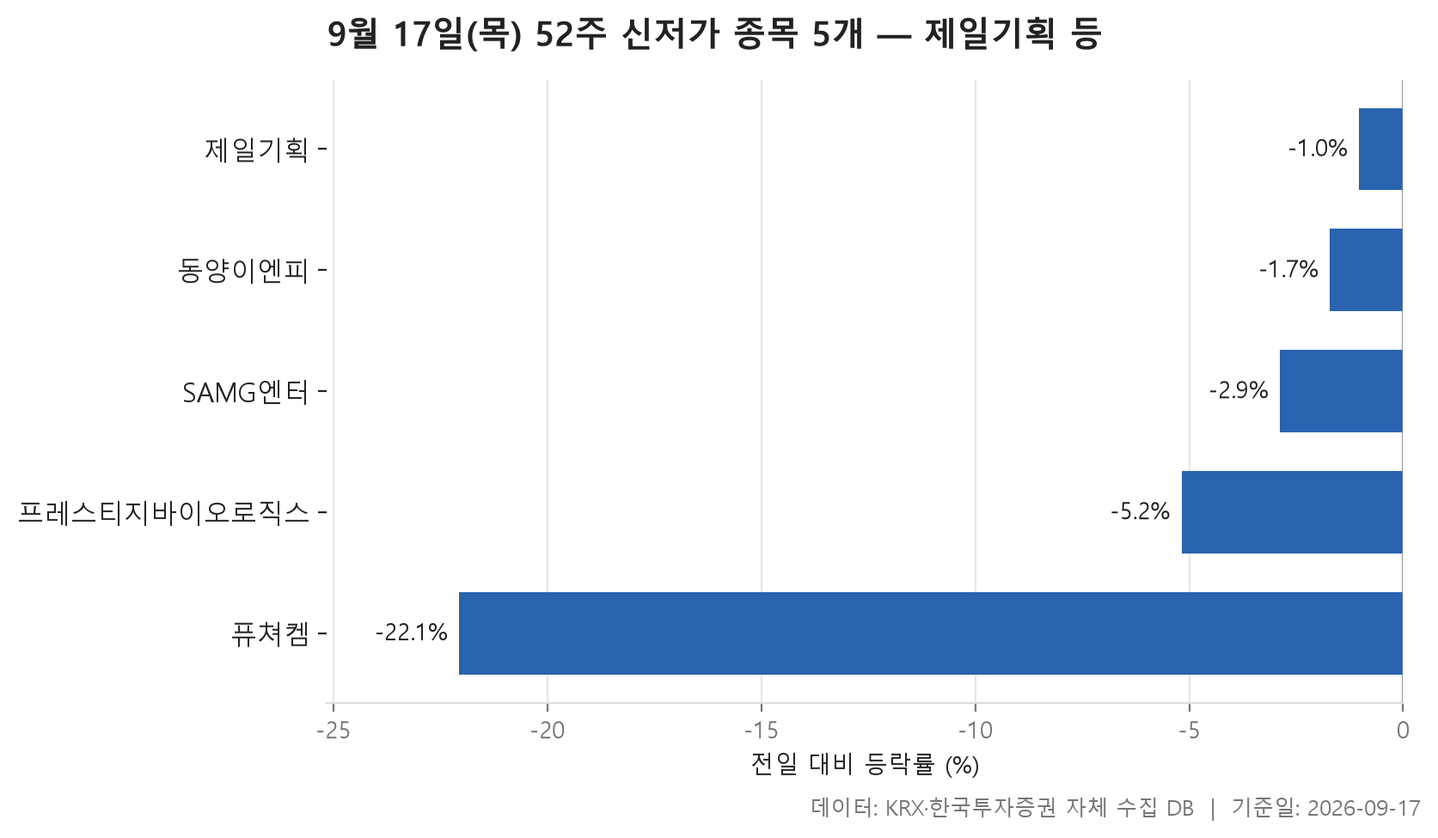
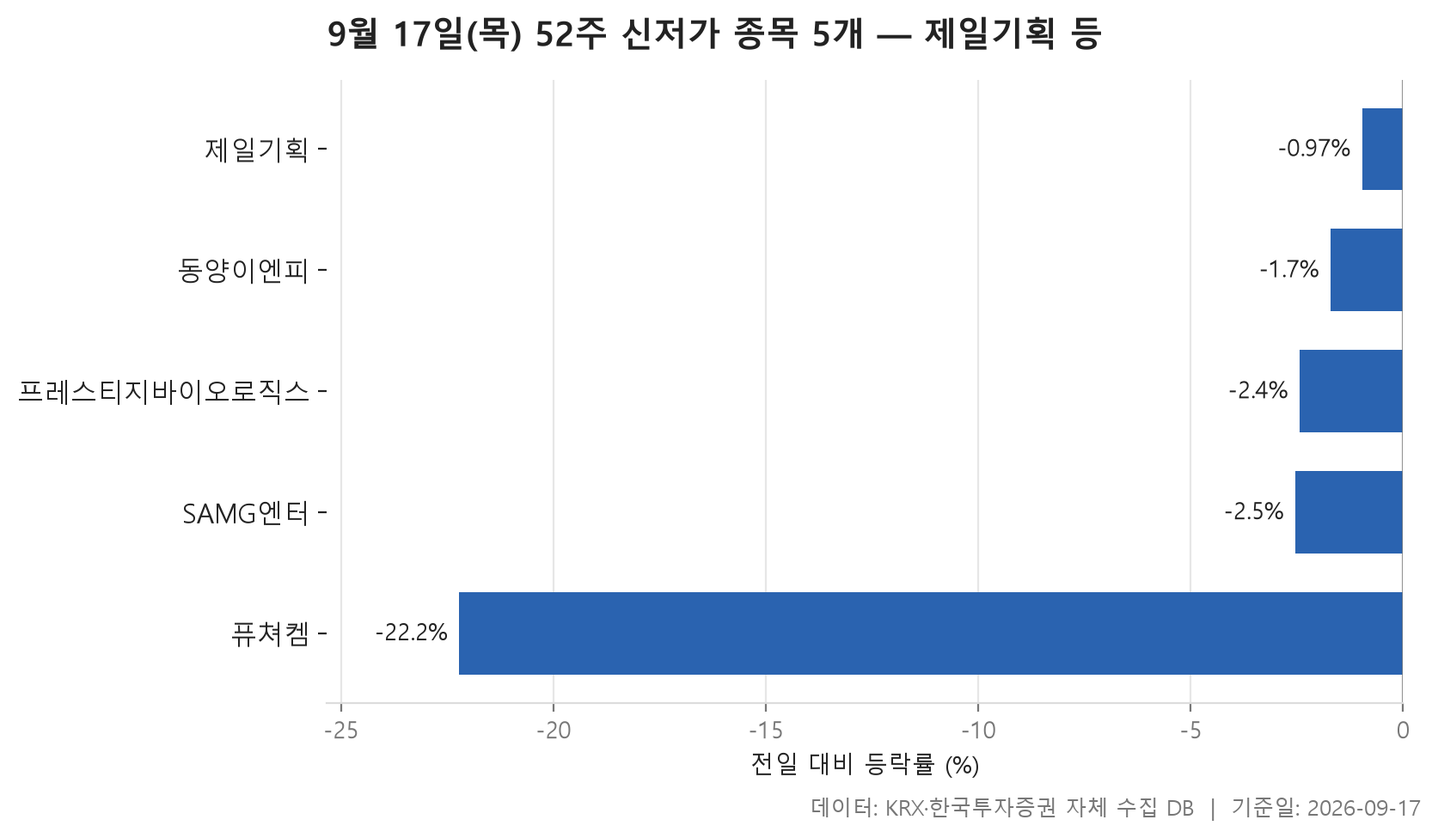
2026-09-17 자동 발행 (1편)
- 2026-09-17-daily-market

blog/daily.py 가 만들었습니다. push 는 사람이 확인 후 합니다.

diff --git a/content/posts/2026-09-17-daily-market/index.md b/content/posts/2026-09-17-daily-market/index.md
@@ -1,17 +1,17 @@
 ---
 title: "9월 17일(목) 오늘의 시장 — 보험 강세, 제조 약세"
 date: 2026-09-17T16:10:00+09:00
-lastmod: 2026-09-17T16:06:00+09:00
+lastmod: 2026-09-28T17:14:16+09:00
 description: "업종 흐름, 52주 신고가·신저가, 거래량이 터진 종목을 한 번에 정리했습니다."
 categories: ["오늘의 시장"]
 draft: false
 sourcePack: "blog/output/2026-09-17/2026-09-17-daily-market/pack.json"
 strip:
   - label: "업종 중위 등락률"
-    value: "+0.16%"
+    value: "+0.12%"
     sign: "up"
   - label: "52주 신고가"
-    value: "1개"
+    value: "2개"
     sign: ""
   - label: "52주 신저가"
     value: "5개"
@@ -20,123 +20,126 @@ strip:
     value: "20개"
     sign: ""
 ---
-9월 17일 목요일 장을 마친 뒤 데이터베이스에서 네 갈래로 자료를 뽑았습니다. 업종별로 어디가 강하고 어디가 밀렸는지, 52주 고점을 넘어선 종목과 저점을 깨고 내려간 종목, 그리고 평소보다 거래량이 유독 많이 실린 종목입니다.
+9월 17일 시장은 업종 단위로 보면 조용히 오른 날에 가깝습니다. 24개 업종마다 종목 등락률의 한가운데 값을 구해 늘어놓으면, 그 가운데 놓인 값이 <span class="chg chg-up">+0.12%</span>입니다. 위쪽으로 기운 업종이 15개, 아래쪽이 5개였고, 나머지는 한가운데 종목이 보합에 머물렀습니다. 움직임은 크지 않았지만 방향은 분명히 위였습니다.
 
-먼저 전체 모양을 말하자면, 이날은 오른 쪽이 우세했지만 그 폭이 크지는 않았습니다. 24개 업종의 중위 등락률을 한 줄로 늘어놓았을 때 가운데 놓인 값이 <span class="chg chg-up">+0.16%</span>였고, 24개 가운데 17개가 플러스, 6개가 마이너스였습니다. 지수 한두 개만 보면 조용한 날처럼 보이겠지만, 개별 종목 단위로 내려가면 상한가 근처까지 간 종목과 하한가 근처까지 밀린 종목이 같은 날 안에 섞여 있습니다.
+맨 위는 보험(<span class="chg chg-up">+1.65%</span>), 맨 아래는 제조(<span class="chg chg-down">-1.18%</span>)입니다. 다만 오늘 표에서 더 흥미로운 건 양 끝보다 중간입니다. 한가운데 값은 소폭인데 평균은 훨씬 높게 나온 업종이 여럿 있고, 52주 신고가보다 신저가가 더 많이 나왔으며, 거래량이 평소의 수십 배로 불어난 종목들은 코스닥에 몰려 있습니다.
 
-그래서 이 글은 업종의 평균과 중위값이 어긋난 지점, 신고가·신저가 명단의 비대칭, 거래량이 터진 종목들의 쏠림을 차례로 짚습니다. 왜 그런 움직임이 나왔는지는 이 자료에 담겨 있지 않으니, 표가 말해 주는 범위까지만 설명하겠습니다.
+아래에서 업종 흐름, 52주 신고가와 신저가, 거래량 급증 종목을 차례로 봅니다. 각 표에서 숫자끼리 어긋나는 대목을 중심으로 짚어 보겠습니다.
 
 > 기준일: 2026-09-17 · 집계: 자체 수집 데이터베이스
 
-## 업종 등락률 — 24개 중 17개 상승
+## 업종 등락률 — 24개 중 15개 상승
 
-가장 강했던 업종은 보험으로, 업종 안 종목들의 중위 등락률이 <span class="chg chg-up">+1.65%</span>였습니다. 눈에 띄는 건 이 업종은 평균이 오히려 중위값보다 낮은 <span class="chg chg-up">+1.50%</span>라는 점입니다. 평균을 끌어올릴 만한 한 종목이 튀지 않았다는 뜻이고, 실제로 이 업종에서 등락 폭이 가장 컸던 종목도 <span class="chg chg-up">+3.46%</span>에 그쳤습니다. 오른 종목이 열 곳 중 여섯 곳을 넘었으니, 한두 종목이 만든 강세가 아니라 업종 전체가 고르게 올라간 모양입니다. 종목 수가 11개, 거래대금 합계가 1,940.30억원인 작은 묶음이라는 점도 함께 봐 둘 만합니다.
+보험은 11개 종목 가운데 오른 곳이 63.60%로, 열 곳 중 여섯 곳 남짓이 올랐습니다. 한가운데 값 <span class="chg chg-up">+1.65%</span>와 평균 <span class="chg chg-up">+1.48%</span>가 거의 붙어 있다는 점이 눈여겨볼 만합니다. 가장 크게 움직인 미래에셋생명도 <span class="chg chg-up">+3.46%</span>에 그쳤으니, 한 종목이 끌어올린 강세가 아니라 업종 전체가 고르게 오른 모양입니다.
 
-반대편은 제조였습니다. 중위 등락률 <span class="chg chg-down">-1.18%</span>, 평균 <span class="chg chg-down">-2.04%</span>인데 더 직관적인 숫자는 상승비율입니다. 이 업종에서 오른 종목이 하나도 없었습니다. 다만 종목 수가 7개, 거래대금 합계가 9.50억원이라 이 한 줄을 시장 전체의 제조업 상황으로 읽으면 곤란합니다. 등락 폭이 가장 컸던 종목 하나가 업종 평균을 -1.11%p 움직였다는 값은, 중위값과 평균의 격차 대부분이 그 종목에서 나왔음을 보여 줍니다.
+반대로 운송장비·부품과 전기·전자는 한가운데 값보다 평균이 훨씬 높습니다. 운송장비·부품은 한가운데 값이 <span class="chg chg-up">+0.60%</span>인데 평균은 <span class="chg chg-up">+1.52%</span>입니다. 나라스페이스테크놀로지가 <span class="chg chg-up">+29.92%</span> 올랐지만 이 종목 하나가 업종 평균을 끌어올린 폭은 0.22%p에 그쳐, 두 값의 차이를 혼자 설명하지 못합니다. 크게 뛴 종목이 여럿 함께 있었다는 뜻이죠. 전기·전자도 한가운데 값 <span class="chg chg-up">+0.43%</span>, 평균 <span class="chg chg-up">+1.24%</span>로 같은 모양인데, 앤씨앤 한 종목의 몫은 0.08%p뿐입니다. 이 업종의 거래대금은 126,552.00억원으로 다른 업종과 자릿수가 다를 만큼 컸습니다.
 
-표에서 정작 흥미로운 대목은 중간 순위권입니다. 기계·장비는 중위 <span class="chg chg-up">+0.58%</span>인데 평균은 <span class="chg chg-up">+1.16%</span>, 운송장비·부품은 중위 <span class="chg chg-up">+0.49%</span>에 평균 <span class="chg chg-up">+1.48%</span>, 전기·전자는 중위 <span class="chg chg-up">+0.40%</span>에 평균 <span class="chg chg-up">+1.38%</span>로 평균이 훨씬 위에 있습니다. 그런데 이 업종들에서 가장 크게 움직인 종목 하나가 평균에 보탠 몫은 각각 0.12%p, 0.22%p, 0.08%p뿐입니다. 격차가 이 값보다 크게 벌어져 있다는 것은 크게 오른 종목이 한 개가 아니라 여럿이었다는 신호로 읽힙니다. 특히 전기·전자는 종목 수가 364개, 거래대금 합계가 117,559.80억원으로 이 표에서 가장 두꺼운 업종인데, 그 안에서도 위로 튄 종목들이 평균을 밀어올렸습니다.
+어긋남이 더 뚜렷한 곳은 화학입니다. 한가운데 종목은 보합(0.00%)이고 가장 크게 움직인 코스나인은 <span class="chg chg-down">-33.33%</span> 급락했는데, 평균은 <span class="chg chg-up">+0.75%</span>로 플러스입니다. 가장 큰 폭의 하락을 다른 종목들의 상승이 덮고도 남았다는 얘기입니다. 증권은 거꾸로 한가운데 값이 <span class="chg chg-up">+0.08%</span>인데 평균은 <span class="chg chg-down">-0.28%</span>로, 두 값의 방향이 엇갈렸습니다.
 
-방향이 엇갈린 줄도 있습니다. 금융은 중위값이 0.00%이고 평균은 <span class="chg chg-up">+0.41%</span>인데 오른 종목은 열 곳 중 네 곳이 채 되지 않습니다. 오른 쪽의 폭이 컸다는 뜻이고, 여기서 가장 크게 움직인 종목은 <span class="chg chg-up">+30.00%</span>로 업종 평균에 0.27%p를 보탰습니다. 통신도 중위 <span class="chg chg-down">-0.07%</span>인데 평균은 <span class="chg chg-up">+0.56%</span>, 상승비율은 38.50%입니다. 오락·문화는 오른 종목이 셋 중 하나꼴이었는데 가장 크게 움직인 종목은 <span class="chg chg-up">+15.86%</span>로 위를 향했습니다 — 소수가 크게 오르고 다수가 조용히 밀린 전형적인 모양입니다. 증권은 중위값이 플러스(<span class="chg chg-up">+0.08%</span>)인데 평균이 <span class="chg chg-down">-0.25%</span>로 부호가 반대인 드문 경우입니다.
+아래쪽을 보면 제조는 7개 종목 가운데 오른 곳이 하나도 없었습니다. 평균은 <span class="chg chg-down">-2.47%</span>이고, 에넥스(<span class="chg chg-down">-7.78%</span>) 하나가 평균을 1.11%p 끌어내린 몫이 커서 종목 수가 적은 업종이라는 점을 감안하고 읽어야 합니다. 오락·문화는 오른 종목이 28.80%로 열 곳 중 세 곳이 채 안 됐는데, 이 업종에서 가장 크게 움직인 건 <span class="chg chg-up">+15.63%</span> 오른 아티스트컴퍼니였습니다. 업종 전반의 약세와 개별 종목의 급등이 한 칸에 같이 들어 있는 셈입니다.
 
 ![업종 등락률 차트](chart-sector-change.png)
 
 | 업종 | 종목수(개) | 중위등락률(%) | 평균등락률(%) | 상승비율(%) | 주도종목 | 주도종목등락률(%) | 평균기여도(%p) | 거래대금합계(억원) |
 |---|---|---|---|---|---|---|---|---|
-| 보험 | 11 | +1.65 | +1.50 | 63.60 | 미래에셋생명 | +3.46 | 0.31 | 1,940.30 |
-| 기계·장비 | 204 | +0.58 | +1.16 | 61.80 | 씨케이솔루션 | +23.96 | 0.12 | 12,962.30 |
-| 의료·정밀기기 | 100 | +0.58 | +1.27 | 62.00 | 에스오에스랩 | +23.86 | 0.24 | 1,326.90 |
-| 운송장비·부품 | 134 | +0.49 | +1.48 | 66.40 | 나라스페이스테크놀로지 | +29.92 | 0.22 | 9,454.30 |
-| 건설 | 51 | +0.46 | +0.37 | 62.70 | 일진파워 | +6.07 | 0.12 | 2,250.90 |
-| 일반서비스 | 168 | +0.44 | +0.98 | 61.30 | 큐라티스 | +29.96 | 0.18 | 4,562.00 |
-| 전기·전자 | 364 | +0.40 | +1.38 | 56.30 | 앤씨앤 | +29.89 | 0.08 | 117,559.80 |
-| 금속 | 130 | +0.33 | +0.77 | 60.00 | SHD | -26.47 | -0.20 | 4,427.30 |
-| 운송·창고 | 28 | +0.21 | +0.33 | 60.70 | 동양고속 | +4.26 | 0.15 | 1,084.90 |
-| 전기·가스 | 10 | +0.21 | +0.46 | 50.00 | 지역난방공사 | +2.04 | 0.20 | 342.10 |
-| 제약 | 165 | +0.19 | +0.23 | 57.60 | 퓨쳐켐 | -22.06 | -0.13 | 6,806.60 |
-| 기타제조 | 14 | +0.17 | +0.16 | 64.30 | 브이씨 | +2.85 | 0.20 | 23.80 |
-| 유통 | 153 | +0.15 | +0.28 | 51.00 | 케이피엠테크 | +10.83 | 0.07 | 3,348.50 |
-| 화학 | 221 | +0.13 | +0.81 | 52.00 | 코스나인 | -33.33 | -0.15 | 9,295.70 |
-| IT 서비스 | 244 | +0.11 | +0.62 | 51.20 | 크라우드웍스 | +19.66 | 0.08 | 10,389.00 |
-| 증권 | 18 | +0.08 | -0.25 | 50.00 | 신영증권 | -1.82 | -0.10 | 869.90 |
-| 음식료·담배 | 83 | +0.06 | +0.19 | 50.60 | 오에스피 | +8.89 | 0.11 | 1,256.20 |
-| 금융 | 111 | 0.00 | +0.41 | 43.20 | 비츠로테크 | +30.00 | 0.27 | 15,098.90 |
-| 통신 | 13 | -0.07 | +0.56 | 38.50 | 프리티 | +7.88 | 0.61 | 636.60 |
-| 종이·목재 | 26 | -0.19 | -0.04 | 38.50 | 국일제지 | +4.03 | 0.15 | 28.50 |
-| 비금속 | 36 | -0.30 | -0.33 | 41.70 | 강동씨앤엘 | -5.62 | -0.16 | 343.20 |
-| 섬유·의류 | 47 | -0.30 | -0.76 | 42.60 | 원풍물산 | -23.21 | -0.49 | 122.40 |
-| 오락·문화 | 66 | -0.51 | -0.54 | 33.30 | 아티스트스튜디오 | +15.86 | 0.24 | 752.50 |
-| 제조 | 7 | -1.18 | -2.04 | 0.00 | 에넥스 | -7.78 | -1.11 | 9.50 |
+| 보험 | 11 | +1.65 | +1.48 | 63.60 | 미래에셋생명 | +3.46 | 0.31 | 1,998.10 |
+| 운송장비·부품 | 134 | +0.60 | +1.52 | 67.20 | 나라스페이스테크놀로지 | +29.92 | 0.22 | 10,079.80 |
+| 의료·정밀기기 | 100 | +0.49 | +0.84 | 58.00 | 한컴라이프케어 | +10.61 | 0.11 | 1,404.60 |
+| 기계·장비 | 204 | +0.48 | +1.14 | 59.80 | 와이제이링크 | +23.62 | 0.12 | 14,549.20 |
+| 전기·전자 | 364 | +0.43 | +1.24 | 56.30 | 앤씨앤 | +29.89 | 0.08 | 126,552.00 |
+| 일반서비스 | 168 | +0.43 | +0.92 | 60.70 | 큐라티스 | +29.96 | 0.18 | 4,936.30 |
+| 전기·가스 | 10 | +0.38 | +0.49 | 60.00 | 지역난방공사 | +2.04 | 0.20 | 356.90 |
+| 금속 | 130 | +0.37 | +0.83 | 61.50 | SHD | -26.47 | -0.20 | 4,616.30 |
+| 건설 | 51 | +0.31 | +0.31 | 58.80 | 일진파워 | +6.07 | 0.12 | 2,397.30 |
+| 운송·창고 | 28 | +0.16 | +0.33 | 60.70 | 동양고속 | +4.26 | 0.15 | 1,119.00 |
+| IT 서비스 | 244 | +0.16 | +0.69 | 53.30 | 지어소프트 | +20.77 | 0.09 | 14,973.50 |
+| 기타제조 | 14 | +0.13 | +0.17 | 57.10 | 브이씨 | +4.18 | 0.30 | 25.00 |
+| 유통 | 153 | +0.11 | +0.25 | 51.00 | 케이피엠테크 | +10.83 | 0.07 | 3,545.70 |
+| 제약 | 165 | +0.11 | +0.19 | 53.30 | 퓨쳐켐 | -22.22 | -0.13 | 7,034.00 |
+| 증권 | 18 | +0.08 | -0.28 | 50.00 | 신영증권 | -1.82 | -0.10 | 899.30 |
+| 화학 | 221 | 0.00 | +0.75 | 49.80 | 코스나인 | -33.33 | -0.15 | 9,678.50 |
+| 금융 | 111 | 0.00 | +0.38 | 43.20 | 비츠로테크 | +30.00 | 0.27 | 15,791.40 |
+| 통신 | 13 | 0.00 | +0.28 | 46.20 | 프리티 | +7.88 | 0.61 | 667.40 |
+| 음식료·담배 | 83 | 0.00 | +0.13 | 49.40 | 오에스피 | +8.89 | 0.11 | 1,280.40 |
+| 비금속 | 36 | -0.08 | -0.18 | 47.20 | 아이에스동서 | -3.50 | -0.10 | 360.70 |
+| 종이·목재 | 26 | -0.19 | -0.09 | 38.50 | 국일제지 | +2.73 | 0.10 | 30.10 |
+| 섬유·의류 | 47 | -0.36 | -0.88 | 38.30 | 원풍물산 | -23.21 | -0.49 | 151.50 |
+| 오락·문화 | 66 | -0.75 | -0.66 | 28.80 | 아티스트컴퍼니 | +15.63 | 0.24 | 834.40 |
+| 제조 | 7 | -1.18 | -2.47 | 0.00 | 에넥스 | -7.78 | -1.11 | 9.60 |
 
-## 52주 신고가 1개 — 지어소프트 18.45%
+## 52주 신고가 2개 — 최고 지어소프트 20.77%
 
-52주 최고가를 넘어선 종목은 딱 하나였습니다. 시가총액 500억원, 거래대금 3억원이라는 문턱을 두고 걸렀을 때 남은 것이 지어소프트 한 종목이고, KOSPI에서는 해당 종목이 없었습니다.
+52주 신고가를 새로 쓴 종목은 2개뿐이고 둘 다 코스닥입니다. 업종 대부분이 올랐는데도 52주 고점을 넘어선 종목이 이렇게 적다는 건, 상승이 넓게 퍼졌지만 폭은 크지 않았다는 앞의 그림과 맞아떨어집니다.
 
-종가 11,750원으로 이전 52주 최고가 11,640원을 넘었는데, 전일 대비 <span class="chg chg-up">+18.45%</span>라는 폭이 눈에 걸립니다. 직전 고점과 종가 사이의 거리는 크지 않은데 하루 상승률은 컸다는 건, 며칠에 걸쳐 고점 근처를 다지다 뚫은 모양이 아니라 하루 만에 올라와 갱신했다는 이야기에 가깝습니다. 거래대금은 409.40억원, 시가총액은 1,818억원입니다.
+지어소프트는 <span class="chg chg-up">+20.77%</span> 올라 11,980원에 마감하며 직전 52주 최고가 11,640원을 넘었습니다. 거래대금이 507.10억원으로 컸고, 뒤의 거래량 급증 표에도 다시 등장합니다. IT 서비스 업종에서 가장 크게 움직인 종목도 바로 이 종목이었습니다.
 
-업종 표와 겹쳐 보면 이 종목이 속한 IT 서비스는 중위 등락률이 <span class="chg chg-up">+0.11%</span>로 24개 업종 가운데 중간 아래였습니다. 업종 전체가 밀어올린 흐름 속의 신고가가 아니라, 업종 흐름과 따로 움직인 한 종목이라고 보는 편이 자료에 맞습니다. 하루 기준 신고가 명단이 한 종목뿐이라는 사실 자체가, 이날 지수의 플러스가 위로 크게 뻗은 종목들에서 나온 것이 아니라는 점을 말해 줍니다.
+나이스디앤비는 성격이 다릅니다. <span class="chg chg-up">+2.72%</span>의 비교적 작은 상승으로 6,800원에 닫으며 이전 고점 6,640원을 넘었는데, 거래대금은 3.10억원으로 집계 하한인 3억을 간신히 넘긴 수준입니다. 거래가 한산한 가운데 조용히 고점을 넘어선 경우로 읽는 편이 맞겠습니다.
 
 ![52주 신고가 차트](chart-high-change-rate.png)
 
 | 종목명 | 종목코드 | 시장 | 업종 | 종가(원) | 등락률(%) | 이전52주최고(원) | 거래대금(억원) | 시가총액(억원) |
 |---|---|---|---|---|---|---|---|---|
-| 지어소프트 | 051160 | KOSDAQ | IT 서비스 | 11,750 | +18.45 | 11,640 | 409.40 | 1,818 |
+| 지어소프트 | 051160 | KOSDAQ | IT 서비스 | 11,980 | +20.77 | 11,640 | 507.10 | 1,853.80 |
+| 나이스디앤비 | 130580 | KOSDAQ | 일반서비스 | 6,800 | +2.72 | 6,640 | 3.10 | 1,047.20 |
 
-## 52주 신저가 5개 — 최저 퓨쳐켐 -22.06%
+## 52주 신저가 5개 — 최저 퓨쳐켐 -22.22%
 
-52주 최저가를 밑돈 종목은 5개로, 신고가 쪽보다 많았습니다. 시장별로는 KOSPI 1개, KOSDAQ 4개이고 업종은 4개로 나뉘는데 제약이 2개로 가장 많습니다. 신고가 한 종목 대 신저가 다섯 종목이라는 비대칭은, 업종 중위값이 대체로 플러스였던 이날의 인상과는 조금 다른 이야기를 합니다.
+52주 신저가는 5개로 신고가보다 많습니다. 코스닥이 4개, 코스피가 1개이고, 업종으로는 제약이 2개로 가장 많습니다.
 
-명단 안의 편차가 꽤 큽니다. 전일 대비로 가장 덜 빠진 종목은 제일기획으로 <span class="chg chg-down">-1.03%</span>, 가장 많이 빠진 종목은 퓨쳐켐으로 <span class="chg chg-down">-22.06%</span>였고, 다섯 종목의 가운데 값은 <span class="chg chg-down">-2.88%</span>입니다. 앞쪽 종목들은 하루 하락 폭이 1%대에 머물렀는데도 저점을 깼습니다. 종가 17,380원과 이전 52주 최저가 17,460원의 거리, 또는 16,700원과 16,900원의 거리를 보면 알 수 있듯이, 이미 바닥 근처에 붙어 있던 주가가 작은 하락으로 선을 넘은 경우입니다. 반대로 퓨쳐켐은 6,360원으로 이전 저점 6,410원을 하루 만에 큰 폭으로 지나쳐 내려갔습니다.
+시가총액이 가장 큰 제일기획(19,994.20억원)은 하루 <span class="chg chg-down">-0.97%</span> 내렸을 뿐인데 신저가가 됐습니다. 종가 17,380원이 직전 최저 17,460원을 살짝 밑돈 것입니다. 하루의 급락이라기보다 그동안 조금씩 밀려 내려온 흐름이 선을 건드린 모양입니다. 프레스티지바이오로직스도 1,317원으로 이전 최저 1,320원을 겨우 밑돌았습니다.
 
-덩치도 한쪽으로 몰려 있지 않습니다. 시가총액이 가장 큰 제일기획이 19,994억원인데 나머지는 1,024억원부터 1,719억원 사이에 있습니다. 즉 이 명단은 소형주만의 이야기가 아니고, 규모가 있는 종목도 한 칸 섞여 있습니다. 다만 거래대금을 보면 3.50억원, 4.50억원처럼 문턱을 겨우 넘은 종목들이 포함돼 있어, 저점 갱신이 활발한 거래 속에서 일어난 것인지는 종목별로 다릅니다.
+반면 퓨쳐켐은 <span class="chg chg-down">-22.22%</span>의 급락으로 한 번에 신저가로 내려앉았습니다. 이 종목은 제약 업종에서 가장 크게 움직인 종목이기도 한데, 제약 업종 전체는 한가운데 값이 <span class="chg chg-up">+0.11%</span>로 소폭 플러스였습니다. 업종 흐름과 따로 움직인 개별 종목이라는 점이 분명합니다. 다섯 종목 등락률의 한가운데 값은 <span class="chg chg-down">-2.44%</span>여서, 퓨쳐켐을 빼면 대체로 작은 하락이 저점을 건드린 사례들입니다. SAMG엔터(<span class="chg chg-down">-2.54%</span>)가 오늘 가장 약했던 업종 가운데 하나인 오락·문화 소속이라는 점도 함께 볼 만합니다.
 
 ![52주 신저가 차트](chart-low-change-rate.png)
 
 | 종목명 | 종목코드 | 시장 | 업종 | 종가(원) | 등락률(%) | 이전52주최저(원) | 거래대금(억원) | 시가총액(억원) |
 |---|---|---|---|---|---|---|---|---|
-| 제일기획 | 030000 | KOSPI | 일반서비스 | 17,380 | -1.03 | 17,460 | 101.50 | 19,994 |
-| SAMG엔터 | 419530 | KOSDAQ | 오락·문화 | 16,840 | -2.88 | 17,010 | 13.40 | 1,719 |
-| 퓨쳐켐 | 220100 | KOSDAQ | 제약 | 6,360 | -22.06 | 6,410 | 55.00 | 1,426 |
-| 동양이엔피 | 079960 | KOSDAQ | 전기·전자 | 16,700 | -1.71 | 16,900 | 4.50 | 1,261 |
-| 프레스티지바이오로직스 | 334970 | KOSDAQ | 제약 | 1,317 | -5.18 | 1,320 | 3.50 | 1,024 |
+| 제일기획 | 030000 | KOSPI | 일반서비스 | 17,380 | -0.97 | 17,460 | 102.90 | 19,994.20 |
+| SAMG엔터 | 419530 | KOSDAQ | 오락·문화 | 16,900 | -2.54 | 17,010 | 13.70 | 1,725.00 |
+| 퓨쳐켐 | 220100 | KOSDAQ | 제약 | 6,300 | -22.22 | 6,410 | 56.00 | 1,412.90 |
+| 동양이엔피 | 079960 | KOSDAQ | 전기·전자 | 16,700 | -1.71 | 16,900 | 4.90 | 1,261.10 |
+| 프레스티지바이오로직스 | 334970 | KOSDAQ | 제약 | 1,317 | -2.44 | 1,320 | 3.50 | 1,024.00 |
 
-## 거래량 급증 20개 — 최고 아이티센피엔에스 205.20배
+## 거래량 급증 20개 — 최고 아이티센피엔에스 211.10배
 
-마지막은 거래량입니다. 직전 20거래일 평균의 5배를 넘긴 종목 중 상위 20개를 뽑았는데, 배수의 분포가 위쪽으로 길게 늘어져 있습니다. 가장 높은 아이티센피엔에스가 205.20배이고, 그다음이 90.50배, 71.00배로 뚝 떨어집니다. 20개의 가운데 값은 27.35배입니다. 상위 한두 종목이 평균 대비 배수에서 확연히 떨어져 나와 있다는 뜻이죠.
+거래량이 직전 20거래일 평균의 5배를 넘은 종목은 20개이고, 이 가운데 18개가 코스닥입니다. 평소 대비 배수의 한가운데 값이 27.70배이니, 기준선인 5배를 훌쩍 넘긴 종목이 대부분입니다.
 
-그런데 배수가 크다는 것과 주가가 올랐다는 것은 별개입니다. 배수 1위인 아이티센피엔에스는 <span class="chg chg-down">-1.01%</span>로 오히려 소폭 하락이었습니다. 20개 명단 안에는 <span class="chg chg-down">-9.18%</span>, <span class="chg chg-down">-8.17%</span>, <span class="chg chg-down">-22.06%</span> 같은 하락 종목도 섞여 있습니다. 거래량이 터진 방향이 한쪽이 아니었다는 점은 이 표에서 꼭 짚어야 할 대목입니다. 물론 <span class="chg chg-up">+30.00%</span>, <span class="chg chg-up">+29.92%</span>, <span class="chg chg-up">+26.33%</span>처럼 크게 오른 종목이 더 많기는 합니다.
+가장 극단적인 건 아이티센피엔에스입니다. 평소의 211.10배에 이르는 거래가 터졌는데 주가는 <span class="chg chg-up">+0.14%</span>로 거의 움직이지 않았습니다. 넷마블도 88.00배의 거래에 등락률은 0.00%였습니다. 이 표에서 시가총액이 가장 크고(28,398.60억원) 거래대금도 3,769.20억원으로 가장 컸지만 가격은 제자리였습니다. 거래가 폭증했다고 가격이 반드시 한 방향으로 움직이지는 않는다는 것을 두 종목이 보여 줍니다.
 
-거래대금 규모도 배수와는 따로 움직입니다. 미투온은 배수가 34.70배로 중간권이지만 거래대금 3,195.40억원으로 명단에서 가장 큽니다. 아주IB투자는 배수가 15.70배로 하위권인데 거래대금은 1,012.60억원이고 시가총액 4,682억원으로 이 표에서 가장 큰 종목입니다. 반대로 배수 28.10배인 싸이닉솔루션의 거래대금은 35.40억원, 22.70배인 케이피항공산업은 31.40억원입니다. 평소 거래가 거의 없던 종목은 작은 금액으로도 배수가 크게 나온다는 사실을 함께 염두에 둬야 합니다.
+나머지는 대체로 크게 올랐습니다. 비츠로테크(<span class="chg chg-up">+30.00%</span>), 나라스페이스테크놀로지(<span class="chg chg-up">+29.92%</span>), 한양디지텍(<span class="chg chg-up">+25.49%</span>)처럼 20%를 넘는 상승이 여럿이고, 켄코아에어로스페이스·케이피항공산업·비츠로넥스텍 등 운송장비·부품 종목이 줄지어 있는 것도 눈에 띕니다. 앞의 업종 표에서 한가운데 값과 평균이 크게 벌어졌던 업종과 겹치는 대목입니다. 거꾸로 에이스테크(<span class="chg chg-down">-9.18%</span>)와 크라운해태홀딩스(<span class="chg chg-down">-8.17%</span>)는 거래가 불어나면서 내렸습니다.
 
-시장과 업종 구성은 한쪽으로 쏠려 있습니다. KOSPI 1개, KOSDAQ 19개이고, 업종은 8개로 나뉘는데 전기·전자가 5개로 가장 많습니다. 여기에 운송장비·부품, 기계·장비, IT 서비스가 여러 칸을 차지하고 있어, 앞선 업종 표에서 중위값 대비 평균이 크게 벌어졌던 업종들과 상당 부분 겹칩니다. 또 퓨쳐켐은 저점을 깬 명단과 거래량이 터진 명단에 동시에 올라 있고, 지어소프트는 신고가 명단과 이 명단에 함께 있습니다. 같은 종목이 서로 다른 표에 잡히는 건 그 종목의 하루가 여러 기준에서 평범하지 않았다는 신호입니다.
+배수만으로 거래 규모를 가늠하면 안 된다는 점도 드러납니다. 미투온은 배수가 24.40배로 중간쯤이지만 거래대금은 3,385.10억원이고, 배수가 가장 낮은 아주IB투자(16배)도 거래대금이 1,045.30억원에 이릅니다. 두 종목 모두 평소 거래량이 이미 많았기 때문에 배수가 상대적으로 작게 나왔습니다.
 
 ![거래량 급증 차트](chart-volume-ratio.png)
 
 | 종목명 | 종목코드 | 시장 | 업종 | 종가(원) | 등락률(%) | 거래량(주) | 평균거래량(주) | 배수(배) | 거래대금(억원) | 시가총액(억원) |
 |---|---|---|---|---|---|---|---|---|---|---|
-| 아이티센피엔에스 | 232830 | KOSDAQ | IT 서비스 | 3,445 | -1.01 | 12,295,856 | 59,929 | 205.20 | 436.10 | 570 |
-| 와이제이링크 | 209640 | KOSDAQ | 기계·장비 | 3,780 | +23.53 | 6,510,203 | 71,901 | 90.50 | 245.20 | 1,075 |
-| 비츠로테크 | 042370 | KOSDAQ | 금융 | 11,440 | +30.00 | 8,916,157 | 125,592 | 71.00 | 955.30 | 2,997 |
-| 대모 | 317850 | KOSDAQ | 기계·장비 | 6,310 | +6.77 | 3,973,782 | 68,384 | 58.10 | 271.30 | 525 |
-| 넥스트칩 | 396270 | KOSDAQ | 전기·전자 | 2,410 | +13.15 | 6,094,155 | 106,175 | 57.40 | 153.50 | 793 |
-| 지어소프트 | 051160 | KOSDAQ | IT 서비스 | 11,750 | +18.45 | 3,428,202 | 77,695 | 44.10 | 409.40 | 1,818 |
-| 나라스페이스테크놀로지 | 478340 | KOSDAQ | 운송장비·부품 | 13,850 | +29.92 | 1,383,745 | 38,524 | 35.90 | 188.60 | 1,602 |
-| 켄코아에어로스페이스 | 274090 | KOSDAQ | 운송장비·부품 | 11,440 | +12.38 | 2,511,243 | 71,075 | 35.30 | 300.10 | 1,576 |
-| 미투온 | 201490 | KOSDAQ | IT 서비스 | 4,595 | +19.66 | 71,832,621 | 2,070,529 | 34.70 | 3,195.40 | 1,504 |
-| 싸이닉솔루션 | 234030 | KOSDAQ | 전기·전자 | 3,460 | +19.93 | 1,032,785 | 36,690 | 28.10 | 35.40 | 817 |
-| 인벤테라 | 0007J0 | KOSDAQ | 일반서비스 | 10,850 | +3.33 | 1,755,462 | 66,072 | 26.60 | 205.70 | 853 |
-| 케이피항공산업 | 288180 | KOSDAQ | 운송장비·부품 | 8,170 | +14.11 | 373,115 | 16,444 | 22.70 | 31.40 | 604 |
-| 에이스테크 | 088800 | KOSDAQ | 전기·전자 | 2,225 | -9.18 | 3,151,068 | 153,615 | 20.50 | 76.50 | 1,680 |
-| 한양디지텍 | 078350 | KOSDAQ | 전기·전자 | 22,500 | +26.33 | 2,033,412 | 104,233 | 19.50 | 431.00 | 3,430 |
-| 크라운해태홀딩스 | 005740 | KOSPI | 금융 | 5,170 | -8.17 | 263,673 | 14,838 | 17.80 | 13.70 | 768 |
-| 피앤에스로보틱스 | 460940 | KOSDAQ | 의료·정밀기기 | 5,240 | +6.94 | 711,662 | 41,906 | 17.00 | 39.60 | 705 |
-| 아모센스 | 357580 | KOSDAQ | 전기·전자 | 6,870 | +7.85 | 2,133,450 | 133,212 | 16.00 | 147.80 | 810 |
-| 비츠로넥스텍 | 488900 | KOSDAQ | 운송장비·부품 | 11,960 | +12.83 | 860,025 | 54,236 | 15.90 | 101.00 | 3,466 |
-| 아주IB투자 | 027360 | KOSDAQ | 금융 | 3,865 | +10.43 | 26,343,463 | 1,680,184 | 15.70 | 1,012.60 | 4,682 |
-| 퓨쳐켐 | 220100 | KOSDAQ | 제약 | 6,360 | -22.06 | 812,206 | 52,410 | 15.50 | 55.00 | 1,426 |
+| 아이티센피엔에스 | 232830 | KOSDAQ | IT 서비스 | 3,485 | +0.14 | 12,766,429 | 60,480 | 211.10 | 451.80 | 576.20 |
+| 와이제이링크 | 209640 | KOSDAQ | 기계·장비 | 3,820 | +23.62 | 6,741,063 | 72,464 | 93.00 | 253.90 | 1,086.50 |
+| 넷마블 | 251270 | KOSPI | IT 서비스 | 34,150 | 0.00 | 11,237,286 | 127,696 | 88.00 | 3,769.20 | 28,398.60 |
+| 비츠로테크 | 042370 | KOSDAQ | 금융 | 11,440 | +30.00 | 8,927,607 | 126,861 | 70.40 | 956.60 | 2,997.30 |
+| 대모 | 317850 | KOSDAQ | 기계·장비 | 6,300 | +6.60 | 4,008,235 | 68,908 | 58.20 | 273.50 | 524.40 |
+| 넥스트칩 | 396270 | KOSDAQ | 전기·전자 | 2,405 | +12.91 | 6,238,874 | 107,110 | 58.20 | 157.00 | 790.90 |
+| 지어소프트 | 051160 | KOSDAQ | IT 서비스 | 11,980 | +20.77 | 4,229,915 | 77,791 | 54.40 | 507.10 | 1,853.80 |
+| 켄코아에어로스페이스 | 274090 | KOSDAQ | 운송장비·부품 | 11,530 | +13.26 | 2,578,948 | 71,439 | 36.10 | 307.90 | 1,588.20 |
+| 나라스페이스테크놀로지 | 478340 | KOSDAQ | 운송장비·부품 | 13,850 | +29.92 | 1,387,435 | 38,663 | 35.90 | 189.10 | 1,602.50 |
+| 싸이닉솔루션 | 234030 | KOSDAQ | 전기·전자 | 3,460 | +19.93 | 1,084,296 | 37,132 | 29.20 | 37.20 | 816.70 |
+| 인벤테라 | 0007J0 | KOSDAQ | 일반서비스 | 10,850 | +3.33 | 1,801,195 | 68,696 | 26.20 | 210.60 | 853.40 |
+| 미투온 | 201490 | KOSDAQ | IT 서비스 | 4,635 | +20.70 | 75,950,952 | 3,114,759 | 24.40 | 3,385.10 | 1,516.70 |
+| 아티스트컴퍼니 | 321820 | KOSDAQ | 오락·문화 | 3,920 | +15.63 | 2,678,816 | 113,994 | 23.50 | 88.30 | 611.20 |
+| 케이피항공산업 | 288180 | KOSDAQ | 운송장비·부품 | 8,170 | +14.11 | 378,365 | 16,511 | 22.90 | 31.80 | 604.00 |
+| 한양디지텍 | 078350 | KOSDAQ | 전기·전자 | 22,350 | +25.49 | 2,398,704 | 105,153 | 22.80 | 514.70 | 3,407.10 |
+| 에이스테크 | 088800 | KOSDAQ | 전기·전자 | 2,225 | -9.18 | 3,247,552 | 155,356 | 20.90 | 78.60 | 1,680.00 |
+| 크라운해태홀딩스 | 005740 | KOSPI | 금융 | 5,170 | -8.17 | 269,126 | 14,923 | 18.00 | 14.00 | 767.60 |
+| 피앤에스로보틱스 | 460940 | KOSDAQ | 의료·정밀기기 | 5,240 | +6.94 | 718,787 | 42,173 | 17.00 | 40.00 | 705.10 |
+| 비츠로넥스텍 | 488900 | KOSDAQ | 운송장비·부품 | 12,130 | +13.68 | 918,076 | 55,653 | 16.50 | 108.00 | 3,514.80 |
+| 아주IB투자 | 027360 | KOSDAQ | 금융 | 3,855 | +10.14 | 27,191,260 | 1,695,989 | 16.00 | 1,045.30 | 4,670.20 |
 
 ## 정리
 
-정리하면 9월 17일은 업종 대부분이 소폭 플러스였지만 그 안에서는 위로 크게 튄 종목과 저점을 깬 종목이 동시에 나온 날이었습니다. 보험처럼 종목들이 고르게 오른 업종이 맨 위에 올라왔고, 평균이 중위값보다 한참 높은 업종들은 상승분이 일부 종목에 몰려 있었습니다. 신고가는 한 종목, 신저가는 다섯 종목이었다는 점도 같이 기억해 둘 만합니다.\n\n다만 이 글에 쓴 모든 숫자는 하루치 종가 기준이고, 왜 그렇게 움직였는지에 대한 정보는 자료에 들어 있지 않습니다. 업종별 집계는 보통주 5종목 이상이라는 조건으로 걸렀으니 종목 수가 적은 업종의 중위값은 한두 종목에 쉽게 흔들립니다. 신고가·신저가와 거래량 표도 시가총액 500억원, 거래대금 3억원이라는 문턱을 통과한 종목만 담고 있어, 그 밑에 있는 종목들은 애초에 보이지 않습니다. 표를 읽을 때 이 범위를 함께 놓고 보시길 권합니다.
+정리하면 9월 17일은 업종 대부분이 소폭 오른 가운데, 코스닥 일부 종목의 급등이 여러 업종의 평균을 한가운데 값보다 크게 끌어올린 날이었습니다. 신고가는 둘, 신저가는 다섯으로, 넓게 퍼진 상승이 52주 고점을 넘을 만큼 강하지는 않았습니다.
+
+이 글은 하루치 종가만 비교한 것이고, 각 종목이 왜 움직였는지는 자료에 담겨 있지 않습니다. 보험이나 제조처럼 종목 수가 적은 업종은 한두 종목에 순위가 크게 흔들릴 수 있다는 점도 감안해 읽어 주시기 바랍니다.
 
 ## 집계 기준
 
@@ -147,7 +150,7 @@ strip:
 - **주도종목**: 그 업종에서 등락률 절대값이 가장 큰 종목 (동점이면 거래대금이 큰 쪽)
 - **평균기여도**: 그 종목 하나가 업종 평균을 움직인 폭 (등락률 ÷ 종목수). 중위값과 평균의 격차가 이 값에 가까우면 평균을 만든 것이 그 종목이고, 훨씬 크면 다른 종목들도 함께 움직인 것입니다
 - **필터**: 업종 내 보통주 5종목 이상
-- **전체업종중위등락률(%)**: 0.16
+- **전체업종중위등락률(%)**: 0.12
 
 **52주 신고가**
 
